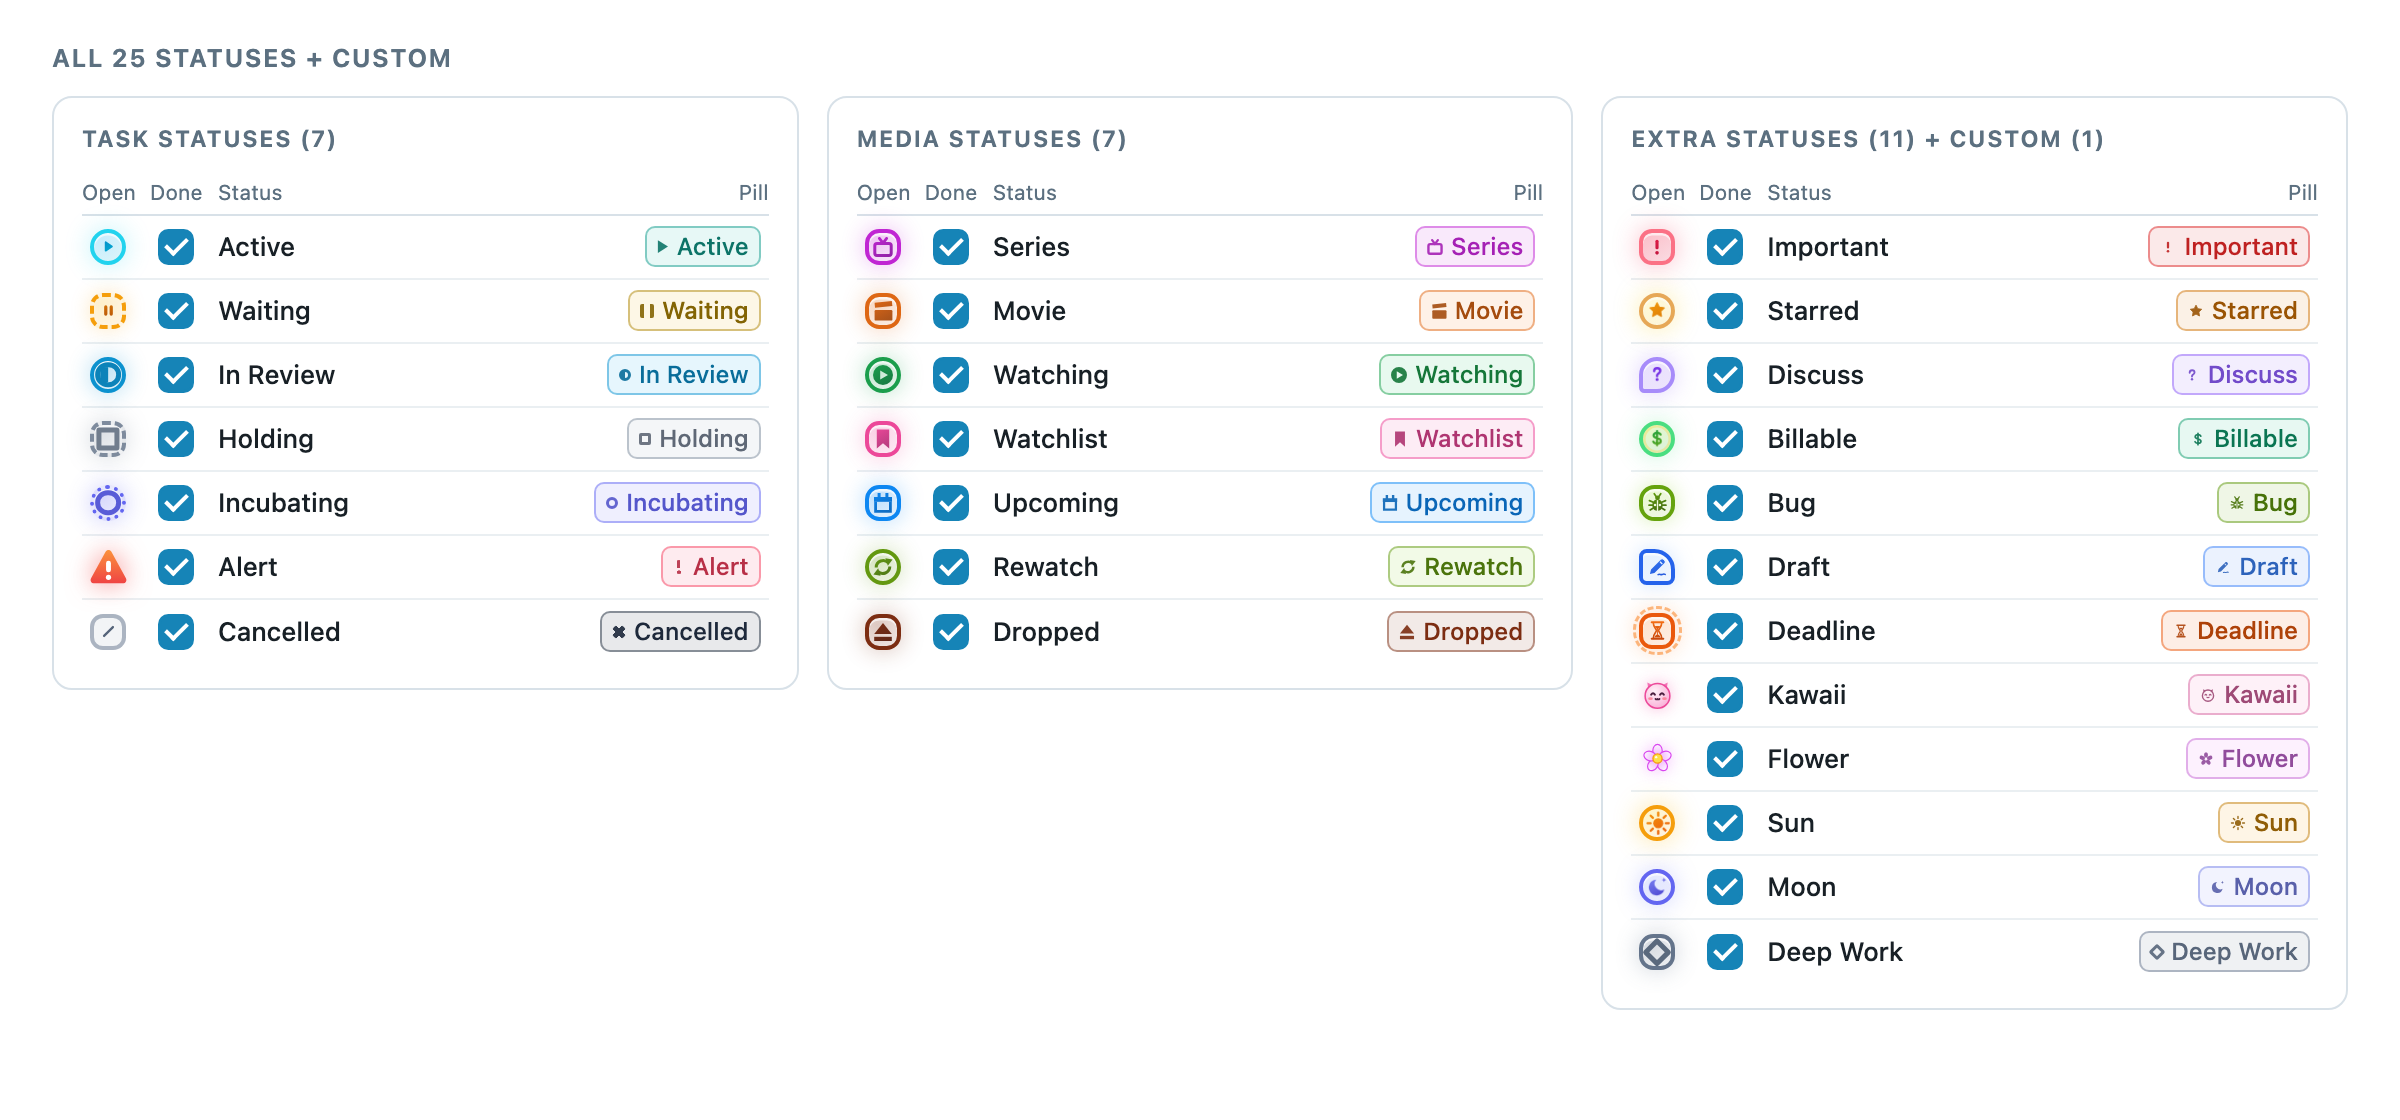
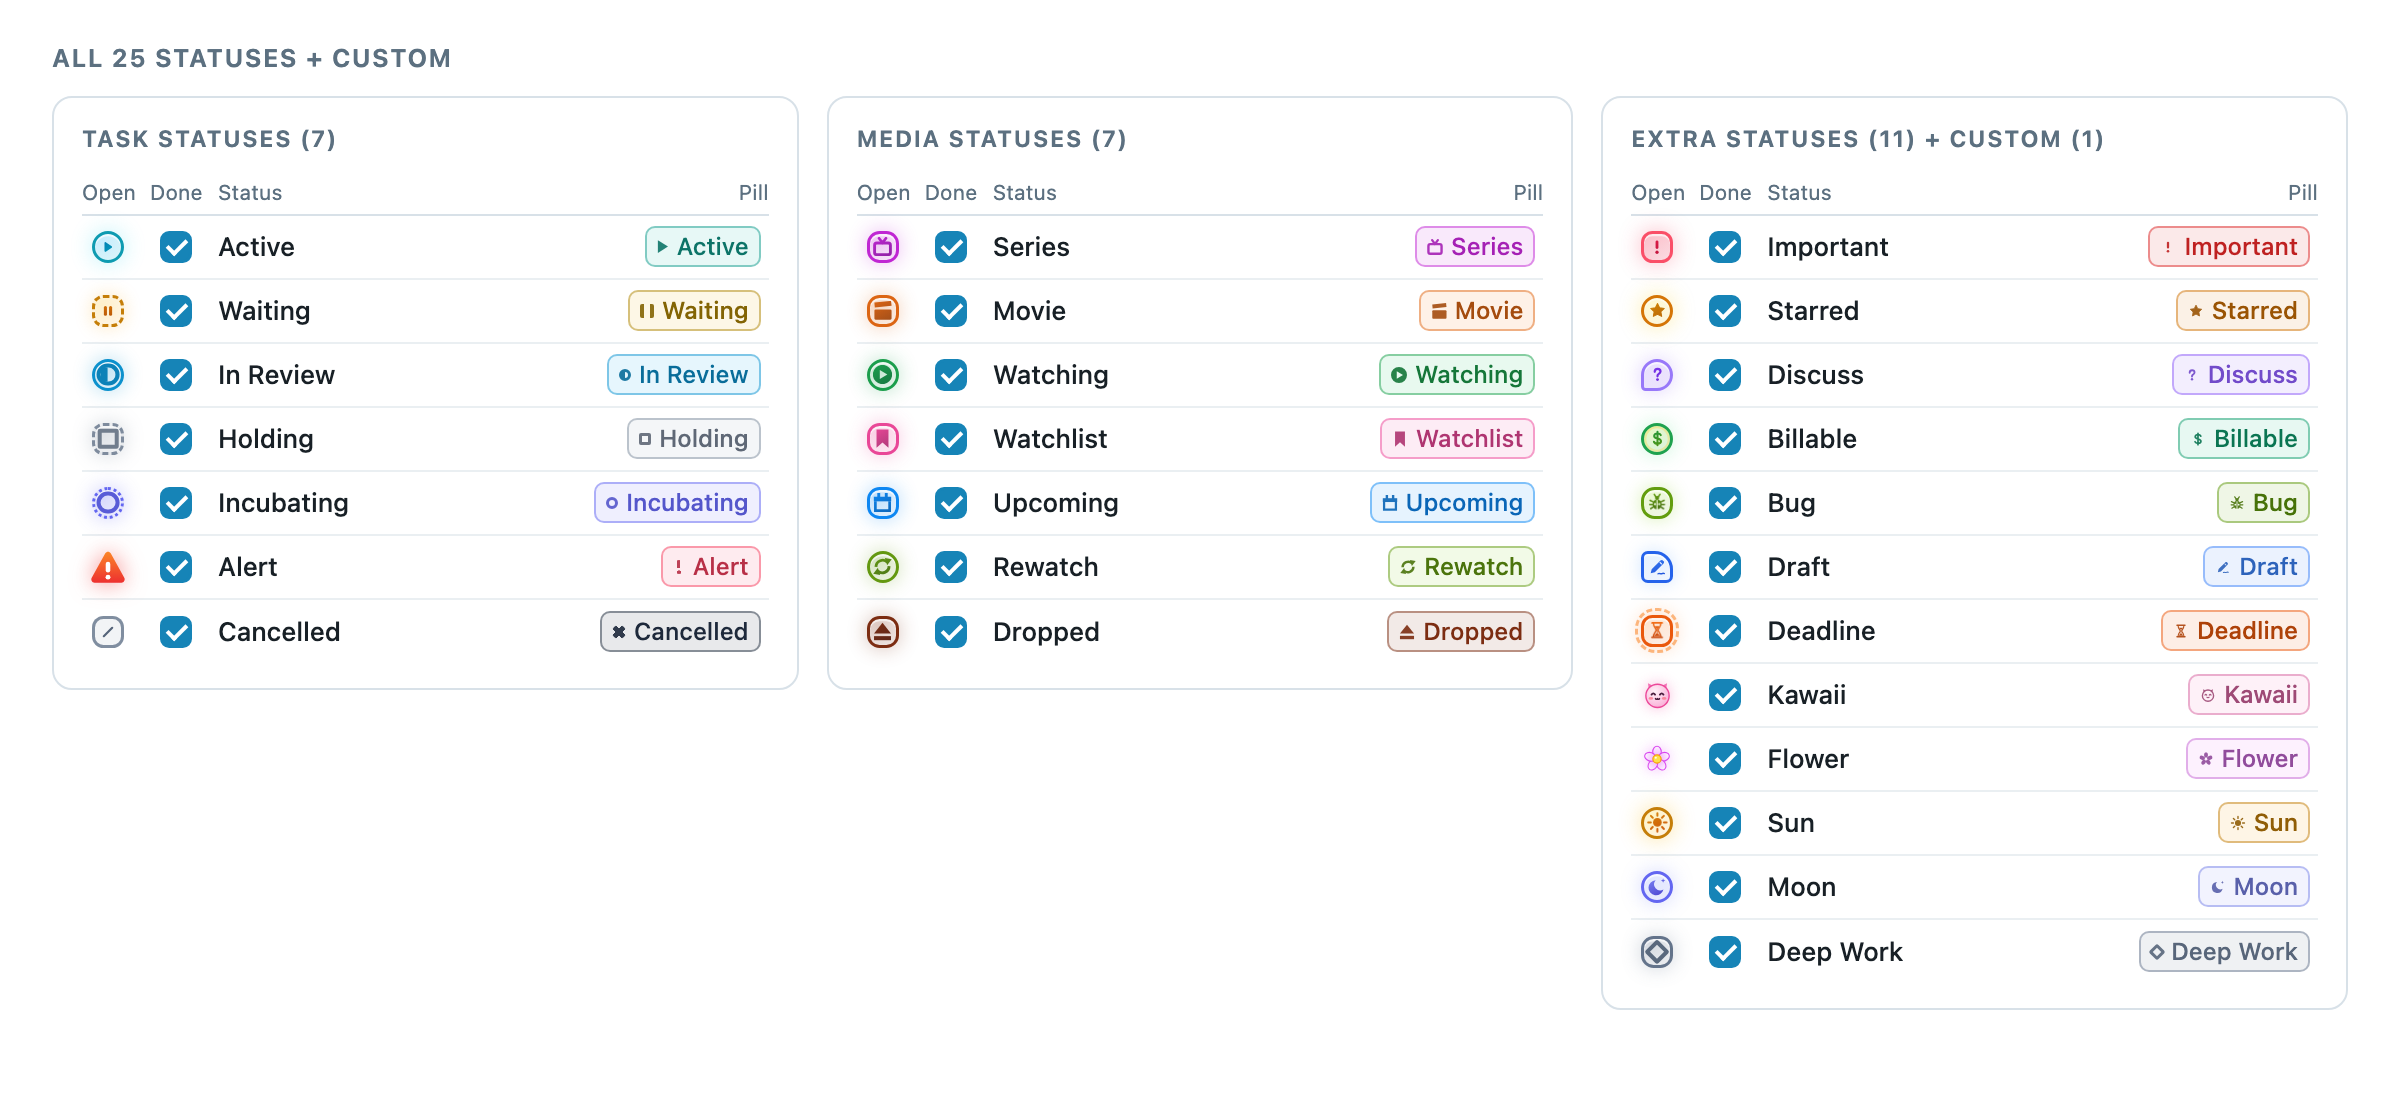
RTS-11: Release v0.18.1 with updated docs, changelog, and screenshots

diff --git a/tests/fixtures/depot-gallery.html b/tests/fixtures/depot-gallery.html
@@ -3,7 +3,7 @@
   <head>
     <meta charset="utf-8" />
     <meta name="viewport" content="width=device-width, initial-scale=1" />
-    <title>Task Status Tags gallery fixture (v0.18.0)</title>
+    <title>Task Status Tags gallery fixture (v0.18.1)</title>
     <link rel="stylesheet" href="../../extension.css" />
     <style id="ts-gallery-base">
       :root {
@@ -491,7 +491,7 @@
   <body>
     <main>
       <header class="toolbar">
-        <h1>Task Status Tags Gallery (v0.18.0)</h1>
+        <h1>Task Status Tags Gallery (v0.18.1)</h1>
         <div class="controls">
           <div class="control-group" role="group" aria-label="Theme">
             <button type="button" data-theme-choice="light" aria-pressed="true">Light</button>
@@ -889,7 +889,7 @@
           var byKey = function (k) { return ALL_ITEMS.find(function (it) { return it.key === k; }); };
           var sampleRows = [
             { kind: "plain-todo", text: "Plain Roam TODO without status" },
-            { kind: "status", item: byKey("ACTIVE"), text: "Draft release notes for v0.18.0" },
+            { kind: "status", item: byKey("ACTIVE"), text: "Draft release notes for v0.18.1" },
             { kind: "status", item: byKey("WAITING"), text: "Waiting on landlord repair estimate" },
             { kind: "status", item: byKey("IN_REVIEW"), text: "Review PR for checkbox zoom calibration" },
             { kind: "status", item: byKey("HOLDING"), text: "Hold server migration until Friday window" },

diff --git a/deploy/extension.js b/deploy/extension.js
@@ -1,4 +1,4 @@
-/* Roam Task Status Tags v0.18.0 | generated; edit src/ */
+/* Roam Task Status Tags v0.18.1 | generated; edit src/ */
 
 // src/status-checkbox.js
 var CHECKBOX_STATUS_ATTRIBUTE = "data-ts-checkbox-status";
@@ -5382,7 +5382,7 @@ function createStatusPeekController({
 
 // src/extension.js
 var GLOBAL_KEY = "__svyk_roamTaskStatusTags";
-var BUNDLED_VERSION = true ? "0.18.0" : "development";
+var BUNDLED_VERSION = true ? "0.18.1" : "development";
 function resolveTaskStatusRuntimeVersion(extensionVersion) {
   const reported = typeof extensionVersion === "string" ? extensionVersion.trim() : "";
   return reported && reported.toUpperCase() !== "DEV" ? reported : BUNDLED_VERSION;

diff --git a/extension.js b/extension.js
@@ -1,4 +1,4 @@
-/* Roam Task Status Tags v0.18.0 | generated; edit src/ */
+/* Roam Task Status Tags v0.18.1 | generated; edit src/ */
 
 // src/status-checkbox.js
 var CHECKBOX_STATUS_ATTRIBUTE = "data-ts-checkbox-status";
@@ -5382,7 +5382,7 @@ function createStatusPeekController({
 
 // src/extension.js
 var GLOBAL_KEY = "__svyk_roamTaskStatusTags";
-var BUNDLED_VERSION = true ? "0.18.0" : "development";
+var BUNDLED_VERSION = true ? "0.18.1" : "development";
 function resolveTaskStatusRuntimeVersion(extensionVersion) {
   const reported = typeof extensionVersion === "string" ? extensionVersion.trim() : "";
   return reported && reported.toUpperCase() !== "DEV" ? reported : BUNDLED_VERSION;

diff --git a/CHANGELOG.md b/CHANGELOG.md
@@ -1,5 +1,13 @@
 # Changelog
 
+## 0.18.1 - 2026-11-24
+
+- Make **Medium** (16px) the default checkbox size for new installs without changing any saved preference.
+- Fix WCAG contrast across Outline, Glass, Solid, and Minimal in both light and dark modes for all 25 built-in statuses and custom statuses (at least 3:1 for outlines, borders, and tiles against the surface, 3:1 for glyphs in Outline, Glass, and Minimal, and 4.5:1 for glyphs in Solid) with zero exemptions while keeping every status in its colour family and leaving Sticker untouched.
+- Use dedicated Solid accent and glyph ink tokens so bright Solid fills pair with near-black glyphs without changing other styles, darken light-theme Glass borders and light inks where needed, raise dark-theme Cancelled Glass border visibility, and deepen the Alert triangle gradient while keeping its white exclamation mark.
+- Normalise **Minimal** glyph sizes so every status draws between 62% and 80% of the tile size at every checkbox size (Compact through Extra large) with crisp strokes of at least 1.5px at Medium and no drop-shadow glow.
+- Regenerate `docs/images/*.png` from the updated gallery fixture.
+
 ## 0.18.0 - 2026-11-24
 
 - Add **Checkbox size** setting (`Compact` 14px, `Medium` 16px, `Large` 18px default, `Extra large` 20px) that scales every task checkbox (status tiles, plain TODOs, and DONE ticks) uniformly without changing 29px line height or moving wrapped first lines, and normalizes the checkbox-to-text gap to 7px across plain TODO, DONE, and hidden-pill status tasks.

diff --git a/deploy/CHANGELOG.md b/deploy/CHANGELOG.md
@@ -1,5 +1,13 @@
 # Changelog
 
+## 0.18.1 - 2026-11-24
+
+- Make **Medium** (16px) the default checkbox size for new installs without changing any saved preference.
+- Fix WCAG contrast across Outline, Glass, Solid, and Minimal in both light and dark modes for all 25 built-in statuses and custom statuses (at least 3:1 for outlines, borders, and tiles against the surface, 3:1 for glyphs in Outline, Glass, and Minimal, and 4.5:1 for glyphs in Solid) with zero exemptions while keeping every status in its colour family and leaving Sticker untouched.
+- Use dedicated Solid accent and glyph ink tokens so bright Solid fills pair with near-black glyphs without changing other styles, darken light-theme Glass borders and light inks where needed, raise dark-theme Cancelled Glass border visibility, and deepen the Alert triangle gradient while keeping its white exclamation mark.
+- Normalise **Minimal** glyph sizes so every status draws between 62% and 80% of the tile size at every checkbox size (Compact through Extra large) with crisp strokes of at least 1.5px at Medium and no drop-shadow glow.
+- Regenerate `docs/images/*.png` from the updated gallery fixture.
+
 ## 0.18.0 - 2026-11-24
 
 - Add **Checkbox size** setting (`Compact` 14px, `Medium` 16px, `Large` 18px default, `Extra large` 20px) that scales every task checkbox (status tiles, plain TODOs, and DONE ticks) uniformly without changing 29px line height or moving wrapped first lines, and normalizes the checkbox-to-text gap to 7px across plain TODO, DONE, and hidden-pill status tasks.

diff --git a/README.md b/README.md
@@ -24,8 +24,8 @@ Roam Task Status Tags adds workflow statuses to Roam TODOs while keeping Roam's 
 
 - **Glass** (default): translucent frosted icon tiles with colored gradient strokes, soft outer glow, and per-status silhouettes.
 - **Outline**: colored border and subtle tinted wash with a centered status glyph, unchanged from v0.14.0 for built-in statuses.
-- **Solid**: saturated app-icon tiles with vivid top-to-bottom gradients, crisp inner highlights, and white glyphs.
-- **Minimal**: bare vector status glyphs with no box and a soft tinted wash on hover.
+- **Solid**: saturated app-icon tiles with vivid top-to-bottom gradients, crisp inner highlights, and contrast-matched glyphs.
+- **Minimal**: bare, evenly sized vector status glyphs with no box or glow and a soft tinted wash on hover.
 - **Sticker**: opaque die-cut vinyl tiles with a 1.5px paper rim (warm off-white on dark themes, white with a soft drop shadow on light themes), stable per-block tilt, hover straighten-and-lift, and a slap landing animation on status change.
 - **Checkbox size**: `Compact` (14px, Roam's own), `Medium` (16px, default), `Large` (18px), and `Extra large` (20px) scale status tiles, plain TODOs, and DONE boxes together while keeping a steady 7px gap to text and unchanged 29px line height.
 - **Eleven extra statuses**: opt-in one at a time via the visual **More statuses** gallery in settings (with an **Add all** shortcut) for Important, Starred, Discuss, Billable, Bug, Draft, Deadline, Kawaii, Flower, Sun, and Moon.

diff --git a/deploy/README.md b/deploy/README.md
@@ -24,8 +24,8 @@ Roam Task Status Tags adds workflow statuses to Roam TODOs while keeping Roam's 
 
 - **Glass** (default): translucent frosted icon tiles with colored gradient strokes, soft outer glow, and per-status silhouettes.
 - **Outline**: colored border and subtle tinted wash with a centered status glyph, unchanged from v0.14.0 for built-in statuses.
-- **Solid**: saturated app-icon tiles with vivid top-to-bottom gradients, crisp inner highlights, and white glyphs.
-- **Minimal**: bare vector status glyphs with no box and a soft tinted wash on hover.
+- **Solid**: saturated app-icon tiles with vivid top-to-bottom gradients, crisp inner highlights, and contrast-matched glyphs.
+- **Minimal**: bare, evenly sized vector status glyphs with no box or glow and a soft tinted wash on hover.
 - **Sticker**: opaque die-cut vinyl tiles with a 1.5px paper rim (warm off-white on dark themes, white with a soft drop shadow on light themes), stable per-block tilt, hover straighten-and-lift, and a slap landing animation on status change.
 - **Checkbox size**: `Compact` (14px, Roam's own), `Medium` (16px, default), `Large` (18px), and `Extra large` (20px) scale status tiles, plain TODOs, and DONE boxes together while keeping a steady 7px gap to text and unchanged 29px line height.
 - **Eleven extra statuses**: opt-in one at a time via the visual **More statuses** gallery in settings (with an **Add all** shortcut) for Important, Starred, Discuss, Billable, Bug, Draft, Deadline, Kawaii, Flower, Sun, and Moon.
